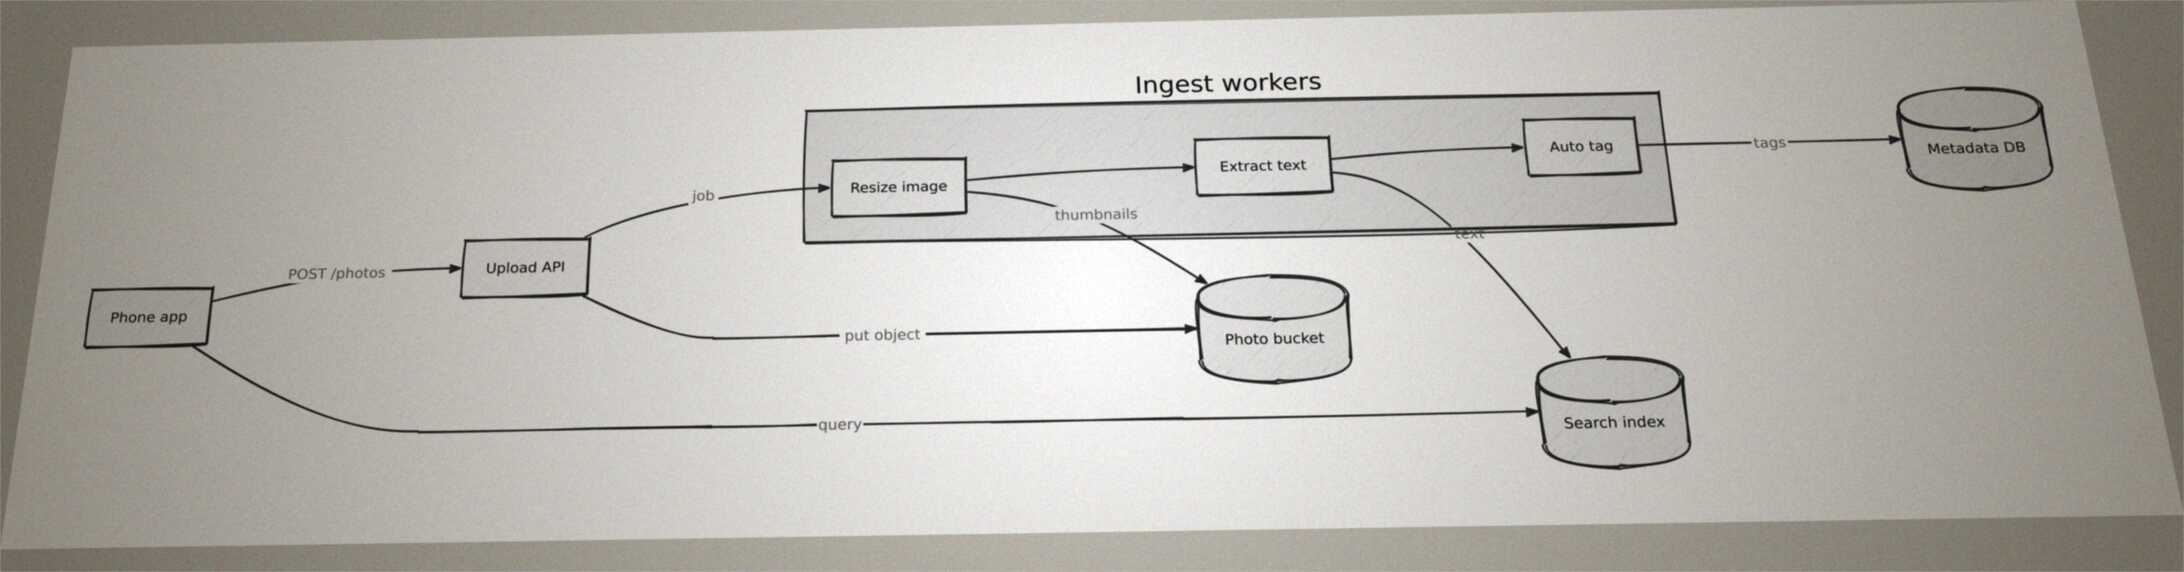
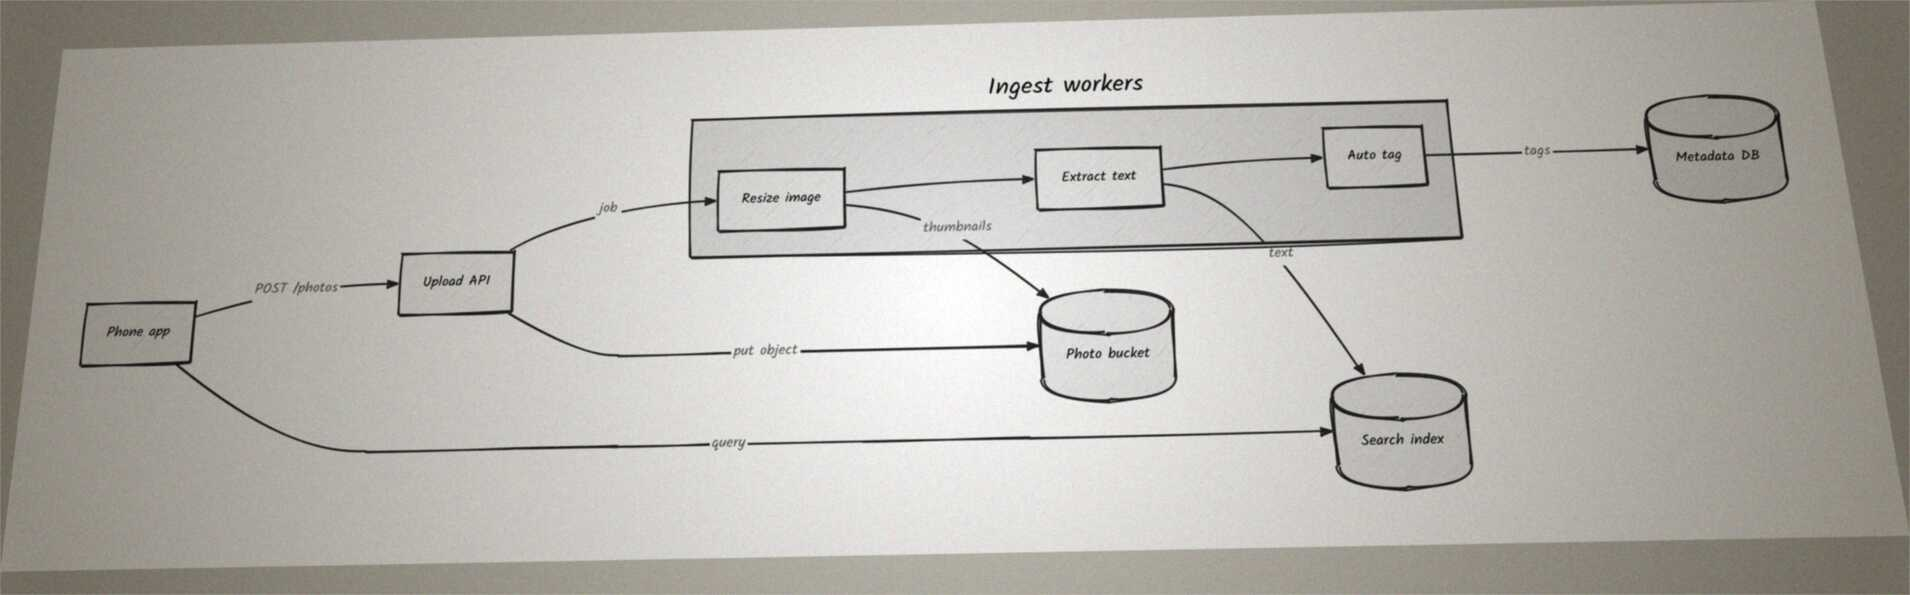
Knowledge plane: vision eval credits only full gold names; handwritten whiteboard (CTX-1433)
- A predicted label gets the 0.9 credit only when it holds all the words
  of the gold label in a row, also after a C4 stereotype. A label that
  drops words gets no credit.
- The whiteboard photo uses the Kalam handwriting font. It is still
  synthetic: the letters are a font, not real handwriting.

diff --git a/apps/backend/evals/knowledge/vision.ts b/apps/backend/evals/knowledge/vision.ts
@@ -23,8 +23,9 @@ import type { ModelCalls } from "./model-calls.js"
  * take the JSON schema: with no provider pin, they are the fallbacks.
  *
  * The fixtures are made-up diagrams, drawn with Graphviz, D2 (also in its
- * hand-drawn sketch style), PlantUML and Mermaid, and one copy that looks
- * like a photo of a screen (`fixtures/vision/README.md`).
+ * hand-drawn sketch style), PlantUML and Mermaid. A hard set adds a dense
+ * mesh, two photos, a small screenshot, swimlanes and a C4 diagram
+ * (`fixtures/vision/README.md`).
  */
 
 /** The candidates of the eval: ZDR vision models of three families. */
@@ -97,18 +98,18 @@ const bigrams = (text: string) => {
 }
 
 /**
- * The similarity of two labels: 1 when they are equal after normalization,
- * 0.9 when one is the other with more words after it, else the Dice
- * coefficient of their character pairs. It accepts small reading errors, as
- * in the photo fixtures.
+ * The similarity of a predicted label to a gold label: 1 when they are
+ * equal after normalization, 0.9 when the predicted label holds all the
+ * words of the gold label in a row, else the Dice coefficient of their
+ * character pairs. It accepts small reading errors, as in the photo
+ * fixtures, and the full text of a C4 box (a stereotype, the name, a type
+ * and a description). A predicted label that drops words gets no 0.9.
  */
-function similarity(a: string, b: string): number {
-  const left = normalize(a)
-  const right = normalize(b)
+function similarity(gold: string, predicted: string): number {
+  const left = normalize(gold)
+  const right = normalize(predicted)
   if (left === right) return 1
-  // A C4 box holds a name, a type and a description, and a C4 line holds a
-  // label and a technology: a reading of the full text still matches.
-  if (left.startsWith(`${right} `) || right.startsWith(`${left} `)) return 0.9
+  if (left && ` ${right} `.includes(` ${left} `)) return 0.9
   const pairs = bigrams(left)
   const others = bigrams(right)
   if (pairs.length === 0 || others.length === 0) return 0
@@ -125,8 +126,9 @@ function similarity(a: string, b: string): number {
 }
 
 const SAME_LABEL = 0.75
-const sameLabel = (a: string, b: string) =>
-  (!normalize(a) && !normalize(b)) || similarity(a, b) >= SAME_LABEL
+const sameLabel = (gold: string, predicted: string) =>
+  (!normalize(gold) && !normalize(predicted)) ||
+  similarity(gold, predicted) >= SAME_LABEL
 
 /**
  * A one-to-one match of predicted labels to gold labels, best pairs first.

diff --git a/apps/backend/src/knowledge-reader/knowledge-vision-eval.test.ts b/apps/backend/src/knowledge-reader/knowledge-vision-eval.test.ts
@@ -202,7 +202,7 @@ describe("scoreReading", () => {
     const reading = perfectReading(gold)
     reading.diagram.nodes = reading.diagram.nodes.map((node) =>
       node.label === "API service"
-        ? { ...node, label: "API service [Container: Go] The JSON API" }
+        ? { ...node, label: "«container» API service [Go] The JSON API" }
         : node,
     )
     reading.diagram.edges = reading.diagram.edges.map((edge) =>
@@ -211,6 +211,14 @@ describe("scoreReading", () => {
     const score = scoreReading(gold, reading)
     expect(score).toMatchObject({ nodeF1: 1, edgeF1: 1, edgeLabel: 1 })
     expect(score.direction).toBeNull()
+  })
+
+  it("does not match a label that drops words of the gold name", () => {
+    const reading = perfectReading(graphGold)
+    reading.diagram.nodes = reading.diagram.nodes.map((node) =>
+      node.label === "Redis cache" ? { ...node, label: "Redis" } : node,
+    )
+    expect(scoreReading(graphGold, reading).nodeF1).toBeLessThan(1)
   })
 
   it("gives 0 to a reading that finds no diagram", () => {

diff --git a/apps/backend/evals/knowledge/fixtures/vision/README.md b/apps/backend/evals/knowledge/fixtures/vision/README.md
@@ -25,7 +25,7 @@ All the diagrams are made up. They contain no customer data. Four tools drew the
 | `checkout` | sequence | Mermaid, with a self-message |
 | `cdn-cache` | sequence | D2 |
 | `dense-mesh` | architecture | Graphviz `neato`: 32 nodes and 48 edges with many crossings, no main direction (`"direction": null`) |
-| `whiteboard-photo` | architecture | D2 sketch, made to look like a photo of a whiteboard (gray, perspective, uneven light, noise, blur, JPEG) |
+| `whiteboard-photo` | architecture | D2 sketch with the Kalam handwriting font (SIL Open Font License), made to look like a photo of a whiteboard (gray, perspective, uneven light, noise, blur, JPEG). It is synthetic: the letters are a font, not real handwriting. |
 | `lowres-screenshot` | flow | Mermaid flowchart, made small (245 × 716 pixels) with strong JPEG loss |
 | `swimlanes` | flow | D2 grid with three lanes; lines cross lanes and labels |
 | `c4-container` | architecture | C4-PlantUML container diagram: each box holds a name, a type and a description |
@@ -42,7 +42,8 @@ docker run --rm -v "$PWD:/f" -w /f alpine:3.22 sh -c '
   for f in arch-web data-platform deploy-flow order-states; do dot -Gdpi=150 -Tpng $f.dot -o $f.png; done &&
   dot -Gdpi=130 -Tpng dense-mesh.dot -o dense-mesh.png &&
   $D2 --pad 40 swimlanes.d2 /tmp/s.svg && rsvg-convert -z 1.4 -b white /tmp/s.svg -o swimlanes.png &&
-  $D2 --sketch --pad 60 whiteboard.d2 /tmp/w.svg && rsvg-convert -z 1.3 -b white /tmp/w.svg -o /tmp/w.png &&
+  K=https://github.com/google/fonts/raw/main/ofl/kalam && curl -sSfL -o /tmp/kr.ttf $K/Kalam-Regular.ttf && curl -sSfL -o /tmp/kb.ttf $K/Kalam-Bold.ttf &&
+  $D2 --sketch --pad 60 --font-regular /tmp/kr.ttf --font-bold /tmp/kb.ttf --font-italic /tmp/kr.ttf --font-semibold /tmp/kb.ttf whiteboard.d2 /tmp/w.svg && rsvg-convert -z 1.3 -b white /tmp/w.svg -o /tmp/w.png &&
   W=$(magick identify -format %w /tmp/w.png) && H=$(magick identify -format %h /tmp/w.png) &&
   magick /tmp/w.png -colorspace Gray -level 0%,100%,0.8 -background "#c9c6bd" -virtual-pixel background -distort Perspective "0,0 $((W/30)),$((H/12))  $W,0 $((W-W/20)),0  0,$H 0,$((H-H/25))  $W,$H $W,$((H-H/10))" \( -size ${W}x${H} radial-gradient:"#ffffff"-"#8f8a80" \) -compose multiply -composite -attenuate 0.5 +noise Gaussian -blur 0x0.8 -resize 75% -quality 50 whiteboard-photo.jpg &&
   $D2 --sketch --pad 40 arch-microservices.d2 /tmp/a.svg && rsvg-convert -z 1.5 -b white /tmp/a.svg -o arch-microservices.png &&
